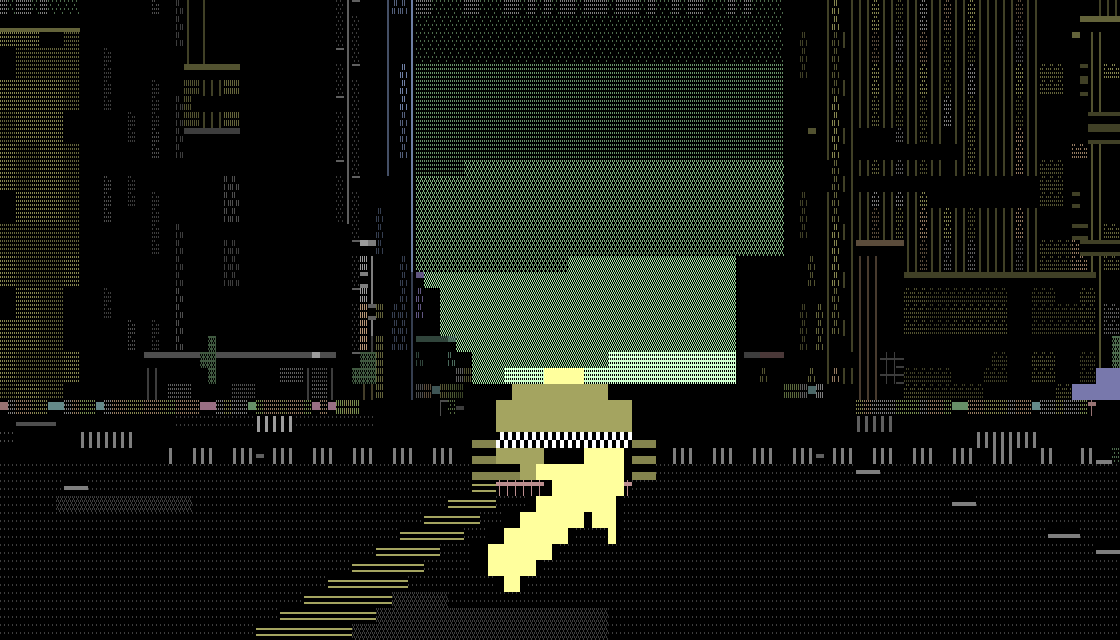
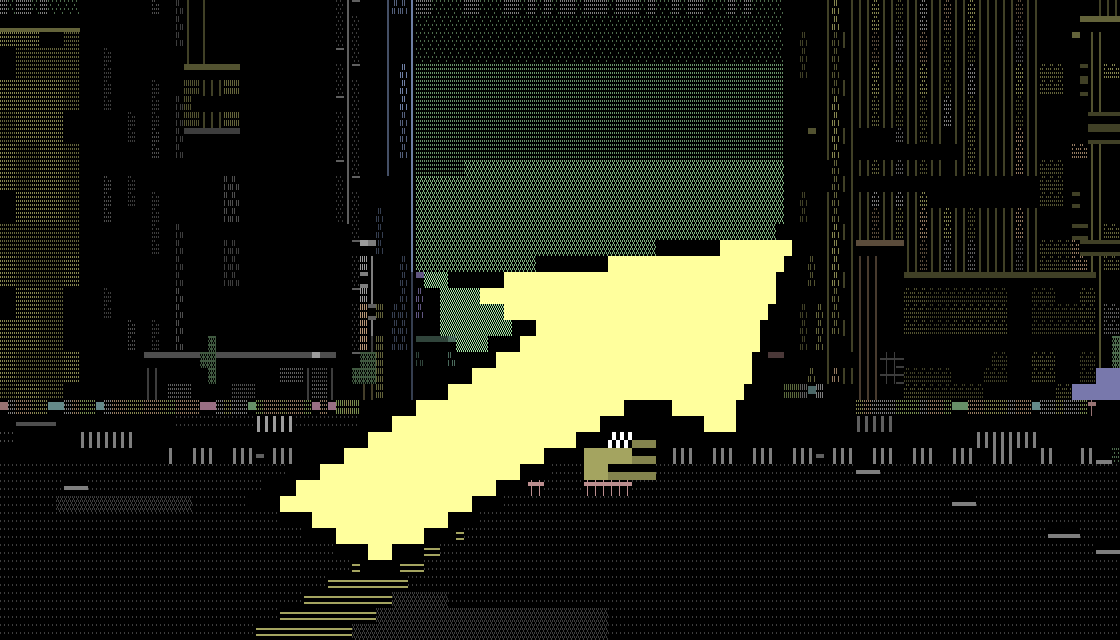
An arrow the size of the street, laid down on it
Three changes to the one thing on the HUD.

It is sized off the frame's **width** rather than its height - three tenths
of it each way - because the width is the dimension a terminal has plenty
of: a frame is three or four times as wide as it is tall, and an arrow sized
off the height is a short one in the middle of a lot of empty screen.  It is
still capped against the height, because the same arrow turned to point up
the road has to stay on the screen.

It is laid flatter: drawn three times wider than it is deep rather than
twice, which is a card laid most of the way down towards the floor rather
than one standing up facing the camera.  The flatter it goes the more it
reads as paint on the road.

And it is sized as a *fraction* rather than in cells, so it is the same
gesture in a twenty-four row window as in a sixty row one.

289 tests.

Changed region(s): [[0.25, 0.3438, 0.7188, 0.9375]]

diff --git a/crates/ascitty-tty/src/hud.rs b/crates/ascitty-tty/src/hud.rs
@@ -41,47 +41,66 @@ pub struct Status<'a> {
     pub flash: Option<&'static str>,
 }
 
-/// Half the length of the arrow, in cells.
-const ARROW_LONG: Fx = fixed::ratio(12, 1);
-/// Half the width of its shaft.
-const ARROW_SHAFT: Fx = fixed::ratio(3, 1);
-/// Half the width of the head where it is widest.
-const ARROW_BARB: Fx = fixed::ratio(15, 2);
+/// How long the arrow is, as a fraction of the frame's **width**.
+///
+/// The width and not the height, because that is the dimension a terminal
+/// has plenty of: a frame is typically three or four times as wide as it is
+/// tall, and an arrow sized off the height is a short one in the middle of a
+/// lot of empty screen.  Three tenths of the width each way, so it is most
+/// of the window from tail to point when it is lying across the road.
+///
+/// Capped against the height as well - see [`arrow_on_the_road`] - because
+/// the same arrow turned to point up the road has to stay on the screen.
+///
+/// It is meant to be too big.  This is the instrument you steer by at ninety
+/// miles an hour: it is the first thing in the frame and the car is behind
+/// it.
+const ARROW_LONG: Fx = fixed::ratio(3, 10);
+/// Half the width of its shaft, as a fraction of the length.
+const ARROW_SHAFT: Fx = fixed::ratio(22, 100);
+/// Half the width of the head where it is widest, likewise.
+const ARROW_BARB: Fx = fixed::ratio(55, 100);
 /// Where along the arrow the head starts, from the middle.
-const ARROW_NECK: Fx = fixed::ratio(2, 1);
-/// How thick the black outline is, in cells.
-const ARROW_EDGE: Fx = fixed::ratio(1, 1);
+const ARROW_NECK: Fx = fixed::ratio(15, 100);
+/// How thick the black outline is, likewise.
+const ARROW_EDGE: Fx = fixed::ratio(7, 100);
 /// How much the road plane squashes a vertical distance.
 ///
-/// A ground plane seen from a camera a car's height up compresses about two
-/// to one over the few cells in front of the bumper, so the arrow is drawn
-/// twice as wide as it is deep and reads as lying on the road rather than
-/// as being painted on the screen.  It is a constant rather than the real
+/// Three tenths: the arrow is drawn more than three times as wide as it is
+/// deep, which is a card laid most of the way down towards the floor rather
+/// than one standing up facing you.  It was 0.45 and read as a sign held up
+/// in front of the car; the flatter it goes the more it reads as paint on
+/// the road.  It is a constant rather than the real
 /// projection because the arrow is on the HUD, not in the world: it has to
 /// read at any pitch, including the ones where the road under the car is not
 /// on screen at all.
-const ARROW_SQUASH: Fx = fixed::ratio(45, 100);
-/// How far up from the bottom of the frame its middle sits.
-const ARROW_ROW: i32 = 8;
+const ARROW_SQUASH: Fx = fixed::ratio(30, 100);
+/// Where the middle of it sits, as a fraction of the frame's height from the
+/// top.
+///
+/// Three fifths down.  Not the bottom edge: the arrow turns, so an arrow
+/// anchored at the bottom loses its head off the screen every time the fare
+/// is behind you - and the head is the half that says which way.
+const ARROW_ROW: Fx = fixed::ratio(3, 5);
 
 /// Whether a point in the arrow's own coordinates is inside it.
 ///
 /// `u` runs along the arrow, positive towards the point; `v` runs across.
 /// `grow` inflates the whole shape, which is how the outline is drawn: the
 /// same test, a little bigger, in black, underneath.
-fn in_arrow(u: Fx, v: Fx, grow: Fx) -> bool {
-    let long = ARROW_LONG + grow;
-    let neck = ARROW_NECK;
+fn in_arrow(u: Fx, v: Fx, size: Fx, grow: Fx) -> bool {
+    let long = size + grow;
+    let neck = fixed::mul(size, ARROW_NECK);
     if u < -long || u > long {
         return false;
     }
     if u <= neck {
         // The shaft.
-        fixed::abs(v) <= ARROW_SHAFT + grow
+        fixed::abs(v) <= fixed::mul(size, ARROW_SHAFT) + grow
     } else {
         // The head: a triangle from the barbs to the point.
         let along = fixed::div(long - u, long - neck).clamp(0, ONE);
-        fixed::abs(v) <= fixed::mul(ARROW_BARB + grow, along)
+        fixed::abs(v) <= fixed::mul(fixed::mul(size, ARROW_BARB) + grow, along)
     }
 }
 
@@ -96,9 +115,9 @@ fn in_arrow(u: Fx, v: Fx, grow: Fx) -> bool {
 /// status line, because "which way now" is a question you ask at ninety
 /// miles an hour and reading a word is not an answer you have time for.
 ///
-/// It is deliberately enormous: twenty-four cells long and fifteen across
-/// in the road's own plane, which on a forty-row frame is most of the width
-/// of the street. A small one is a
+/// It is deliberately enormous - most of the frame - and it is sized off the
+/// frame rather than in cells, so it is the same gesture whatever size the
+/// window is. A small one is a
 /// decoration that the eye has to go and find; this one is the first thing
 /// in the frame, and the car is behind it.
 ///
@@ -120,19 +139,24 @@ fn in_arrow(u: Fx, v: Fx, grow: Fx) -> bool {
 /// lagging a turn, and the arrow belongs to the screen.
 pub fn arrow_on_the_road(f: &mut Frame, bearing: i32, tick: u32) {
     let (sin, cos) = (trig::sin(bearing as Ang), trig::cos(bearing as Ang));
-    let (ax, ay) = (
-        fixed::from_int(f.w as i32 / 2),
-        fixed::from_int(f.h as i32 - ARROW_ROW),
-    );
+    // Sized and placed off the frame, so it is the same gesture in a
+    // twenty-four row window as in a sixty row one.
+    let rows = fixed::from_int(f.h as i32);
+    // Off the width, then capped so that the same arrow pointing up the road
+    // still fits: two fifths of the frame's height, undone by the squash.
+    let size = fixed::mul(fixed::from_int(f.w as i32), ARROW_LONG)
+        .min(fixed::div(fixed::mul(rows, fixed::ratio(2, 5)), ARROW_SQUASH));
+    let edge = fixed::mul(size, ARROW_EDGE);
+    let (ax, ay) = (fixed::from_int(f.w as i32 / 2), fixed::mul(rows, ARROW_ROW));
 
     // A slow pulse, so it reads as an instrument rather than as scenery.
     let luma = if (tick >> 4) & 3 == 0 { 6 } else { 7 };
     let body = Cel { glyph: catalog::G_SOLID, color: palette::rgb_index(palette::H_YELLOW, luma) };
-    let edge = Cel { glyph: catalog::G_SOLID, color: palette::rgb_index(palette::H_BLACK, 0) };
+    let outline = Cel { glyph: catalog::G_SOLID, color: palette::rgb_index(palette::H_BLACK, 0) };
 
     // The bounding box, generous enough for the outline and for the squash.
-    let reach = fixed::floor(ARROW_LONG + ARROW_EDGE) + 2;
-    let (cx, cy) = (f.w as i32 / 2, f.h as i32 - ARROW_ROW);
+    let reach = fixed::floor(size + edge) + 2;
+    let (cx, cy) = (f.w as i32 / 2, fixed::floor(ay));
     for y in (cy - reach)..=(cy + reach) {
         for x in (cx - reach * 2)..=(cx + reach * 2) {
             if x < 0 || y < 0 || x >= f.w as i32 || y >= f.h as i32 {
@@ -143,10 +167,10 @@ pub fn arrow_on_the_road(f: &mut Frame, bearing: i32, tick: u32) {
             let py = fixed::div(fixed::from_int(y) + fixed::HALF - ay, ARROW_SQUASH);
             let u = fixed::mul(px, sin) - fixed::mul(py, cos);
             let v = fixed::mul(px, cos) + fixed::mul(py, sin);
-            if in_arrow(u, v, 0) {
+            if in_arrow(u, v, size, 0) {
                 f.put(x, y, body);
-            } else if in_arrow(u, v, ARROW_EDGE) {
-                f.put(x, y, edge);
+            } else if in_arrow(u, v, size, edge) {
+                f.put(x, y, outline);
             }
         }
     }

diff --git a/README.md b/README.md
@@ -1,6 +1,6 @@
 # ASCITTY — a raytraced ASCII city
 
-**v0.4.0 · 19 August 2026**
+**v0.4.1 · 19 August 2026**
 
 A city built entirely out of typeable characters, rendered in real time, on a
 colour terminal and on a **Commodore Plus/4** — and a taxi game inside it.
@@ -17,13 +17,13 @@ the same string.
 
 *Street level in block elements and colour, which is what you actually get.
 `ascitty --shot 520 --size 140x40 --seed 99 --tour --walk --sky 0 --day 0` —
-**v0.4.0**, 19 Aug 2026.*
+**v0.4.1**, 19 Aug 2026.*
 
 ## Watch it drive itself
 
 ![The cab driving itself down a street, traffic ahead of it, the fare marker glowing on the pavement](docs/media/demo.gif)
 
-*Eight seconds of `make demo`, recorded by `make gif` — **v0.4.0**, 19 Aug
+*Eight seconds of `make demo`, recorded by `make gif` — **v0.4.1**, 19 Aug
 2026. Small and short because a GIF is a whole frame every frame; `make
 cast` records the same run as an asciinema file, which stays sharp at any
 size and is a tenth of the bytes.*
@@ -45,7 +45,7 @@ make gif       # ...or to docs/media/demo.gif
 
 ![The taxi from behind, chequer band along its flank, a saloon alongside on the avenue](docs/media/drive.png)
 
-*The chase camera, from `make demo` at `--sky 3` — **v0.4.0**, 19 Aug 2026.
+*The chase camera, from `make demo` at `--sky 3` — **v0.4.1**, 19 Aug 2026.
 The cab's
 heading and the camera's are not the same thing: the boom lags a turn by a
 few frames, so a slide is watched from outside the spin.*
@@ -79,7 +79,7 @@ It starts in the first one.
 
 ![The city from above the tallest roof: towers seen down their faces, rooftops and fire escapes below](docs/media/copter.png)
 
-*The copter, from `--copter --haze 1 --sky 5` — **v0.4.0**, 19 Aug 2026. How
+*The copter, from `--copter --haze 1 --sky 5` — **v0.4.1**, 19 Aug 2026. How
 far
 down it looks is worked out from how high it is, how far the haze lets it
 see and how many rows the frame has, rather than being a fixed tilt — see
@@ -220,7 +220,7 @@ prints them.
 
 ![The cab at a green sunset, the sky pale at the horizon and darkening above it](docs/media/sunset.png)
 
-*`--sky 8 --day 0` — **v0.4.0**, 19 Aug 2026. The green sunset, held still
+*`--sky 8 --day 0` — **v0.4.1**, 19 Aug 2026. The green sunset, held still
 for the picture.*
 
 A phase change does not cross-fade. Two hues cannot be mixed in a palette
@@ -318,7 +318,7 @@ all:
 ```
 
 *`ascitty --shot 520 --size 92x20 --seed 99 --tour --walk --mode ascii` —
-**v0.4.0**, 19 Aug 2026. The mode the name is about, and the one that runs
+**v0.4.1**, 19 Aug 2026. The mode the name is about, and the one that runs
 anywhere a terminal runs.*
 
 ## Downloads
@@ -425,7 +425,8 @@ right meaning whatever they mean to the thing you are in: the wheel in the
 cab, a step sideways on foot and in the air. **The arrows are the view.**
 
 A yellow arrow lies on the road under the cab, pointing at the fare. It is
-the size of the street on purpose: "which way now" is a question you ask at
+three tenths of the frame's width each way and laid nearly flat, which is the
+size of the street on purpose: "which way now" is a question you ask at
 ninety miles an hour, and reading a word is not an answer you have time for.
 
 Driving:
@@ -522,10 +523,10 @@ place to start.
 
 ```sh
 $ ascitty --version
-ascitty 0.4.0 (seed 0xa5c1771e)
+ascitty 0.4.1 (seed 0xa5c1771e)
 ```
 
-Releases are tagged `v0.4.0` and so on, and every picture in this README
+Releases are tagged `v0.4.1` and so on, and every picture in this README
 says which build drew it. Regenerating them is `make shot` and `make gif`;
 the seed is fixed, so the same tag renders the same frames.
 
@@ -534,7 +535,7 @@ the seed is fixed, so the same tag renders the same frames.
 ![The Plus/4 build running in VICE](docs/media/plus4.png)
 
 *The `.prg` booted in VICE and photographed by `tools/viceshot.sh` — a
-40×25 city on a 1.76 MHz 7501. **v0.4.0**, 19 Aug 2026.*
+40×25 city on a 1.76 MHz 7501. **v0.4.1**, 19 Aug 2026.*
 
 `build/ascitty.prg` and `build/ascitty.d64` are the real thing: a 40×25
 city, in colour, on a 1.76 MHz 7501, with a character set generated on a

diff --git a/docs/camera.md b/docs/camera.md
@@ -139,7 +139,9 @@ shaft and a triangle — and it is drawn last, after the sprites and the
 weather. A decal on the road would disappear under the car at exactly the
 moment the car is what you are looking at.
 
-The squash is a constant rather than the real projection, because the arrow
+It is drawn three times wider than it is deep, which is a card laid most of
+the way down towards the floor rather than one standing up facing you. That
+squash is a constant rather than the real projection, because the arrow
 belongs to the screen: it has to read at any pitch, including the ones where
 the road under the car is not on screen at all.
 
